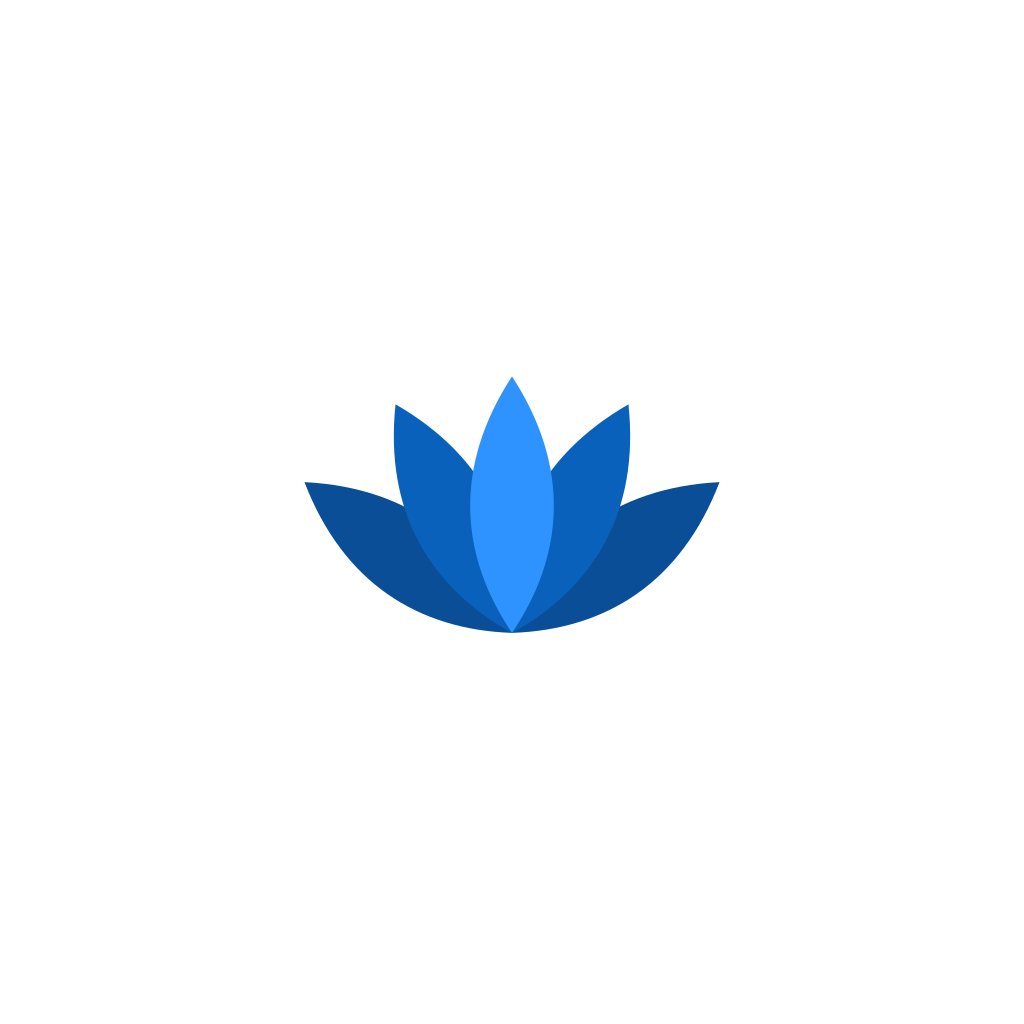
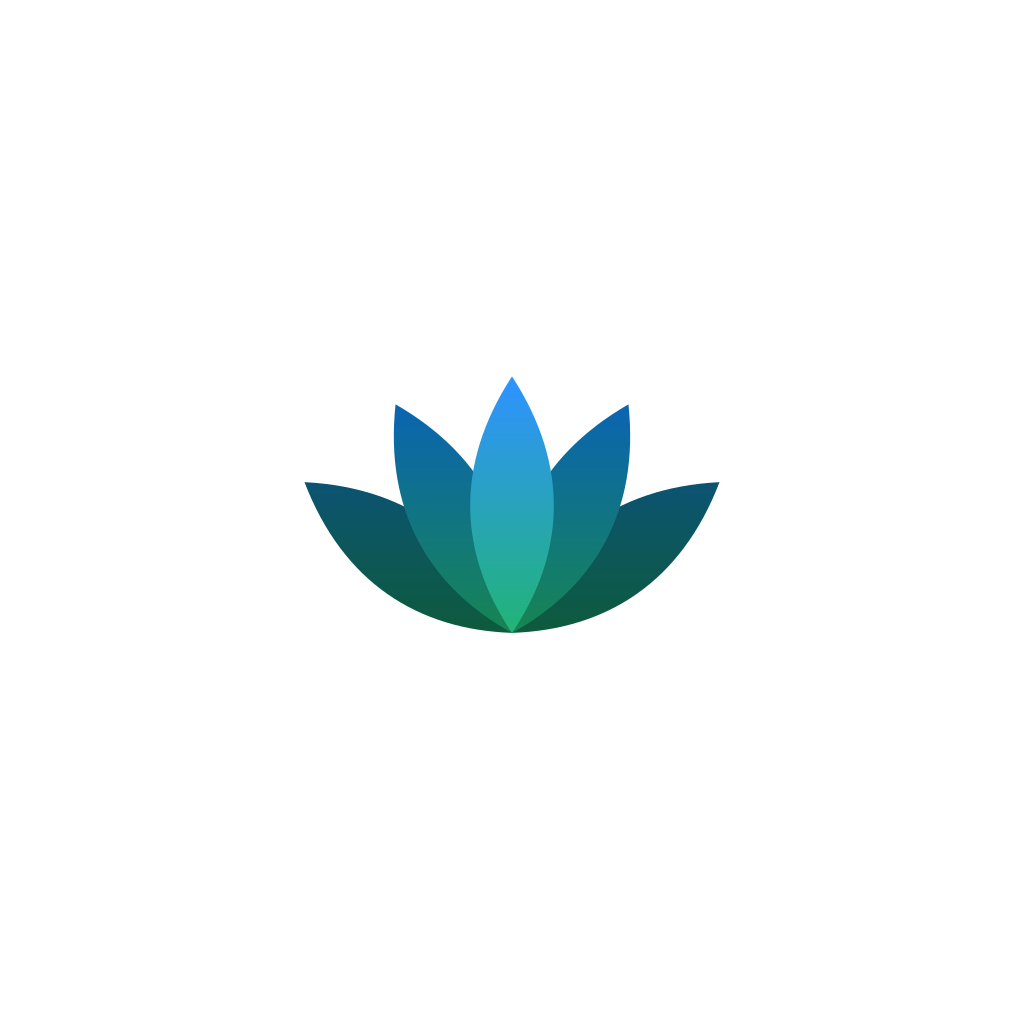
Recolour the mark: one green-to-blue ramp across the whole fan
Item 8. Same five petals, same geometry, same optical centring — only the
paint changes. Spring Mint at the fan's base rising to accent blue at the
tips, so the mark carries both of the app's colours and is the one place
they belong together.

**This file used to forbid exactly this, and the note is rewritten rather
than deleted.** It argued for flat fills because "strokes or gradients
turn to mush" at the 60px an icon is actually seen at. That is true of
*small* gradients — a highlight inside one petal, a bevel, a soft edge —
which downscaling averages away. It is not true of one large sweep across
the whole mark with nothing fine in it to lose. Checked at 60px on both
grounds before it went in.

**The depth is still the overlap order, not the gradient.** Three layers,
three ramps, darkest and furthest back to brightest and on top — the same
structure the flat version had.

**Painted through a clip, not into the petals.** A `use` carries its
rotation into the gradient's user space, so filling the petals directly
would run each ramp along its own petal and the outer pair would come out
±54° off. Each layer is a full-bleed rect clipped to that layer's petals
instead, which keeps every ramp vertical in the mark's own space.

**The splash mark had to solve the same problem a different way.** Its
petals rotate at runtime, so a clip is not available: a clip whose
children are animated is not something to rely on, and the rect being
[…]

Changed region(s): [[0.2812, 0.4062, 0.7188, 0.625]]

diff --git a/src/components/animated-mark.tsx b/src/components/animated-mark.tsx
@@ -1,6 +1,6 @@
-import { useEffect } from 'react';
+import { useEffect, useId } from 'react';
 import { View } from 'react-native';
-import Svg, { G, Path } from 'react-native-svg';
+import Svg, { Defs, G, LinearGradient, Path, Stop } from 'react-native-svg';
 import Animated, {
   useAnimatedProps,
   useSharedValue,
@@ -22,6 +22,25 @@ import Animated, {
  * symmetrical by construction rather than by eye. The group transform that
  * optically centres it is copied across too. If the SVG is ever edited, these
  * constants are what has to follow it.
+ *
+ * ---------------------------------------------------------------------------
+ * The gradient, and why each petal un-rotates its own
+ * ---------------------------------------------------------------------------
+ * The mark runs one vertical ramp — green at the fan's base, blue at its tips —
+ * across the whole shape. `mark.svg` gets that by painting each depth layer
+ * through a clip, which keeps the ramp vertical in the mark's space.
+ *
+ * That shape does not survive here, because these petals rotate at runtime: a
+ * clip whose children are animated is not something to rely on, and the rect
+ * being clipped would rotate with them anyway. So each petal fills with its own
+ * copy of its layer's ramp and cancels its own rotation through
+ * `gradientTransform`. At rest — which is every frame anybody actually looks
+ * at, and the frame the native splash hands off to — the result is identical to
+ * the PNG. The cancellation uses the petal's *final* angle rather than its
+ * animated one, so mid-flight the outer pair's ramp is a few degrees off
+ * vertical. That is four moving shapes for under 600ms, and it is invisible;
+ * animating the gradient to chase it would cost a driven prop per frame per
+ * petal to fix something nobody can see.
  *
  * ---------------------------------------------------------------------------
  * One `<Svg>`, five `<G>` — not five `<Svg>` in five Views
@@ -60,12 +79,26 @@ const BOX = 512;
  * petal is the last thing to land — the payoff frame.
  */
 const PETALS = [
-  { angle: -54, fill: '#0A4E97', delay: 0 },
-  { angle: 54, fill: '#0A4E97', delay: 40 },
-  { angle: -27, fill: '#0961BC', delay: 80 },
-  { angle: 27, fill: '#0961BC', delay: 120 },
-  { angle: 0, fill: '#2E92FF', delay: 160 },
+  { angle: -54, ramp: 'outer', delay: 0 },
+  { angle: 54, ramp: 'outer', delay: 40 },
+  { angle: -27, ramp: 'inner', delay: 80 },
+  { angle: 27, ramp: 'inner', delay: 120 },
+  { angle: 0, ramp: 'centre', delay: 160 },
 ] as const;
+
+/**
+ * The three ramps, verbatim from `mark.svg`: darkest and furthest back to
+ * brightest and on top, each running green at the base to blue at the tip.
+ */
+const RAMPS = {
+  outer: ['#0E5B3A', '#0A4E97'],
+  inner: ['#17864F', '#0961BC'],
+  centre: ['#22B573', '#2E92FF'],
+} as const;
+
+/** Where the ramp starts and ends, in viewBox units. Also from `mark.svg`. */
+const RAMP_FROM = 372;
+const RAMP_TO = 126;
 
 /**
  * How far the petals collapse toward the centre before opening.
@@ -92,6 +125,13 @@ interface Props {
 }
 
 export function AnimatedMark({ size = 180, still = false }: Props) {
+  // Gradient ids are global to the document on web, so two marks on one screen
+  // — the splash handing off to an auth screen, say — would have the second
+  // one's defs silently win. Same reason the realtime channels carry a
+  // `useId()` suffix.
+  const uid = useId().replace(/:/g, '');
+  const rampId = (angle: number) => `betta-ramp-${uid}-${angle < 0 ? 'n' : ''}${Math.abs(angle)}`;
+
   return (
     <View
       style={{ width: size, height: size }}
@@ -101,12 +141,36 @@ export function AnimatedMark({ size = 180, still = false }: Props) {
       importantForAccessibility="no"
     >
       <Svg width={size} height={size} viewBox={`0 0 ${BOX} ${BOX}`}>
+        <Defs>
+          {PETALS.map((petal) => {
+            const [from, to] = RAMPS[petal.ramp];
+            return (
+              <LinearGradient
+                key={petal.angle}
+                id={rampId(petal.angle)}
+                gradientUnits="userSpaceOnUse"
+                x1={256}
+                y1={RAMP_FROM}
+                x2={256}
+                y2={RAMP_TO}
+                // Cancels the petal's own rotation, so the ramp stays vertical
+                // in the mark's space rather than running along the petal. See
+                // the note at the top of this file.
+                gradientTransform={`rotate(${-petal.angle}, 256, 366)`}
+              >
+                <Stop offset="0" stopColor={from} />
+                <Stop offset="1" stopColor={to} />
+              </LinearGradient>
+            );
+          })}
+        </Defs>
+
         {/* The optical centring from `mark.svg`: the fan is wider than it is
             tall, so its bounding box is not the viewBox. Baked in rather than
             animated — it never changes. */}
         <G transform="translate(256 256) scale(1.16) translate(-256 -251)">
           {PETALS.map((petal) => (
-            <Petal key={petal.angle} petal={petal} still={still} />
+            <Petal key={petal.angle} petal={petal} fill={`url(#${rampId(petal.angle)})`} still={still} />
           ))}
         </G>
       </Svg>
@@ -114,7 +178,15 @@ export function AnimatedMark({ size = 180, still = false }: Props) {
   );
 }
 
-function Petal({ petal, still }: { petal: (typeof PETALS)[number]; still: boolean }) {
+function Petal({
+  petal,
+  fill,
+  still,
+}: {
+  petal: (typeof PETALS)[number];
+  fill: string;
+  still: boolean;
+}) {
   // Each petal carries its own clock so the fan can stagger. One shared value
   // would open all five together, which is a scale, not a fan.
   //
@@ -159,7 +231,7 @@ function Petal({ petal, still }: { petal: (typeof PETALS)[number]; still: boolea
       scale={still ? 1 : undefined}
       animatedProps={still ? undefined : animatedProps}
     >
-      <Path d={PETAL} fill={petal.fill} />
+      <Path d={PETAL} fill={fill} />
     </AnimatedG>
   );
 }

diff --git a/APP_STORE.md b/APP_STORE.md
@@ -448,7 +448,7 @@ it before you rely on the liability and warranty clauses.
 | **Description** | Open with what it is and what it is not. Put the no-money line in the first paragraph | P0 |
 | **Keywords** | 100 chars. **Avoid** casino, gambling, betting odds, sportsbook, wager. **Use** friends, group, challenge, scoreboard, settle, dare, prediction | P0 |
 | **Screenshots** | 6.9" and 6.5" required; 5.5" if supporting older devices. iPad not needed (`supportsTablet: false`) | P0 |
-| **App icon** | 1024×1024, no alpha, no rounded corners. `scripts/build-icons.mjs` already renders every size from `assets/logo/mark.svg`. **The artwork still illustrates the old name** — it was drawn as a lotus/fanned-cards shape for *Lotus Bet* and means nothing under *Betta*. Shipping it is a choice, not a blocker | P0 |
+| **App icon** | 1024×1024, no alpha, no rounded corners. `scripts/build-icons.mjs` already renders every size from `assets/logo/mark.svg`. **The artwork still illustrates the old name** — it was drawn as a lotus/fanned-cards shape for *Lotus Bet* and means nothing under *Betta*. The recolour changed the paint, not that fact. Shipping it is a choice, not a blocker | P0 |
 | **Privacy policy URL** | Required, live. Written and generated — `<origin>/legal/privacy.html`, produced by `npm run build:web`. You still have to deploy it somewhere | P0 |
 | **Support URL** | Required, live — `<origin>/legal/support.html`, same build. Set `EXPO_PUBLIC_SUPPORT_EMAIL` first or it prints a placeholder | P0 |
 | **Marketing URL** | Optional | P2 |
@@ -457,6 +457,14 @@ it before you rely on the liability and warranty clauses.
 **Screenshot advice specific to this app:** show the group, the comment thread
 and the settle-up screen. Do **not** lead with the odds bar and a large ₪
 figure — out of context it is the most gambling-looking screen you have.
+
+**The icon carries both brand colours now.** The mark is the same five-petal
+geometry it always was, repainted as one vertical ramp — Spring Mint at the
+fan's base rising to accent blue at the tips. Its own file argues the case
+against gradients on an icon and then says why this one is the exception: what
+downscaling destroys is *small* gradients, and this is a single sweep across
+the whole shape with nothing fine in it to lose. Checked at 60px on both
+grounds before it went in.
 
 **The icon is done.** `scripts/build-icons.mjs` now writes `icon.png` at
 1024×1024 with **no alpha channel** — it previously composited onto an opaque

diff --git a/CLAUDE.md b/CLAUDE.md
@@ -190,7 +190,9 @@ global.css                  GENERATED from it by scripts/build-theme-css.js
 legal-text.json             SINGLE SOURCE OF TRUTH for terms, privacy, support
 public/legal/*.html         GENERATED from it by scripts/build-legal-html.js,
                             at build time, gitignored — see §11
-assets/logo/mark.svg       the mark; scripts/build-icons.mjs renders every size
+assets/logo/mark.svg       the mark — one green-to-blue ramp across the whole
+                            fan; scripts/build-icons.mjs renders every size, and
+                            animated-mark.tsx redraws the same petals and ramps
 supabase/
   migrations/               schema · RLS · RPCs · email auth · media · avatars ·
                             bet options · notification prefs · social ·
